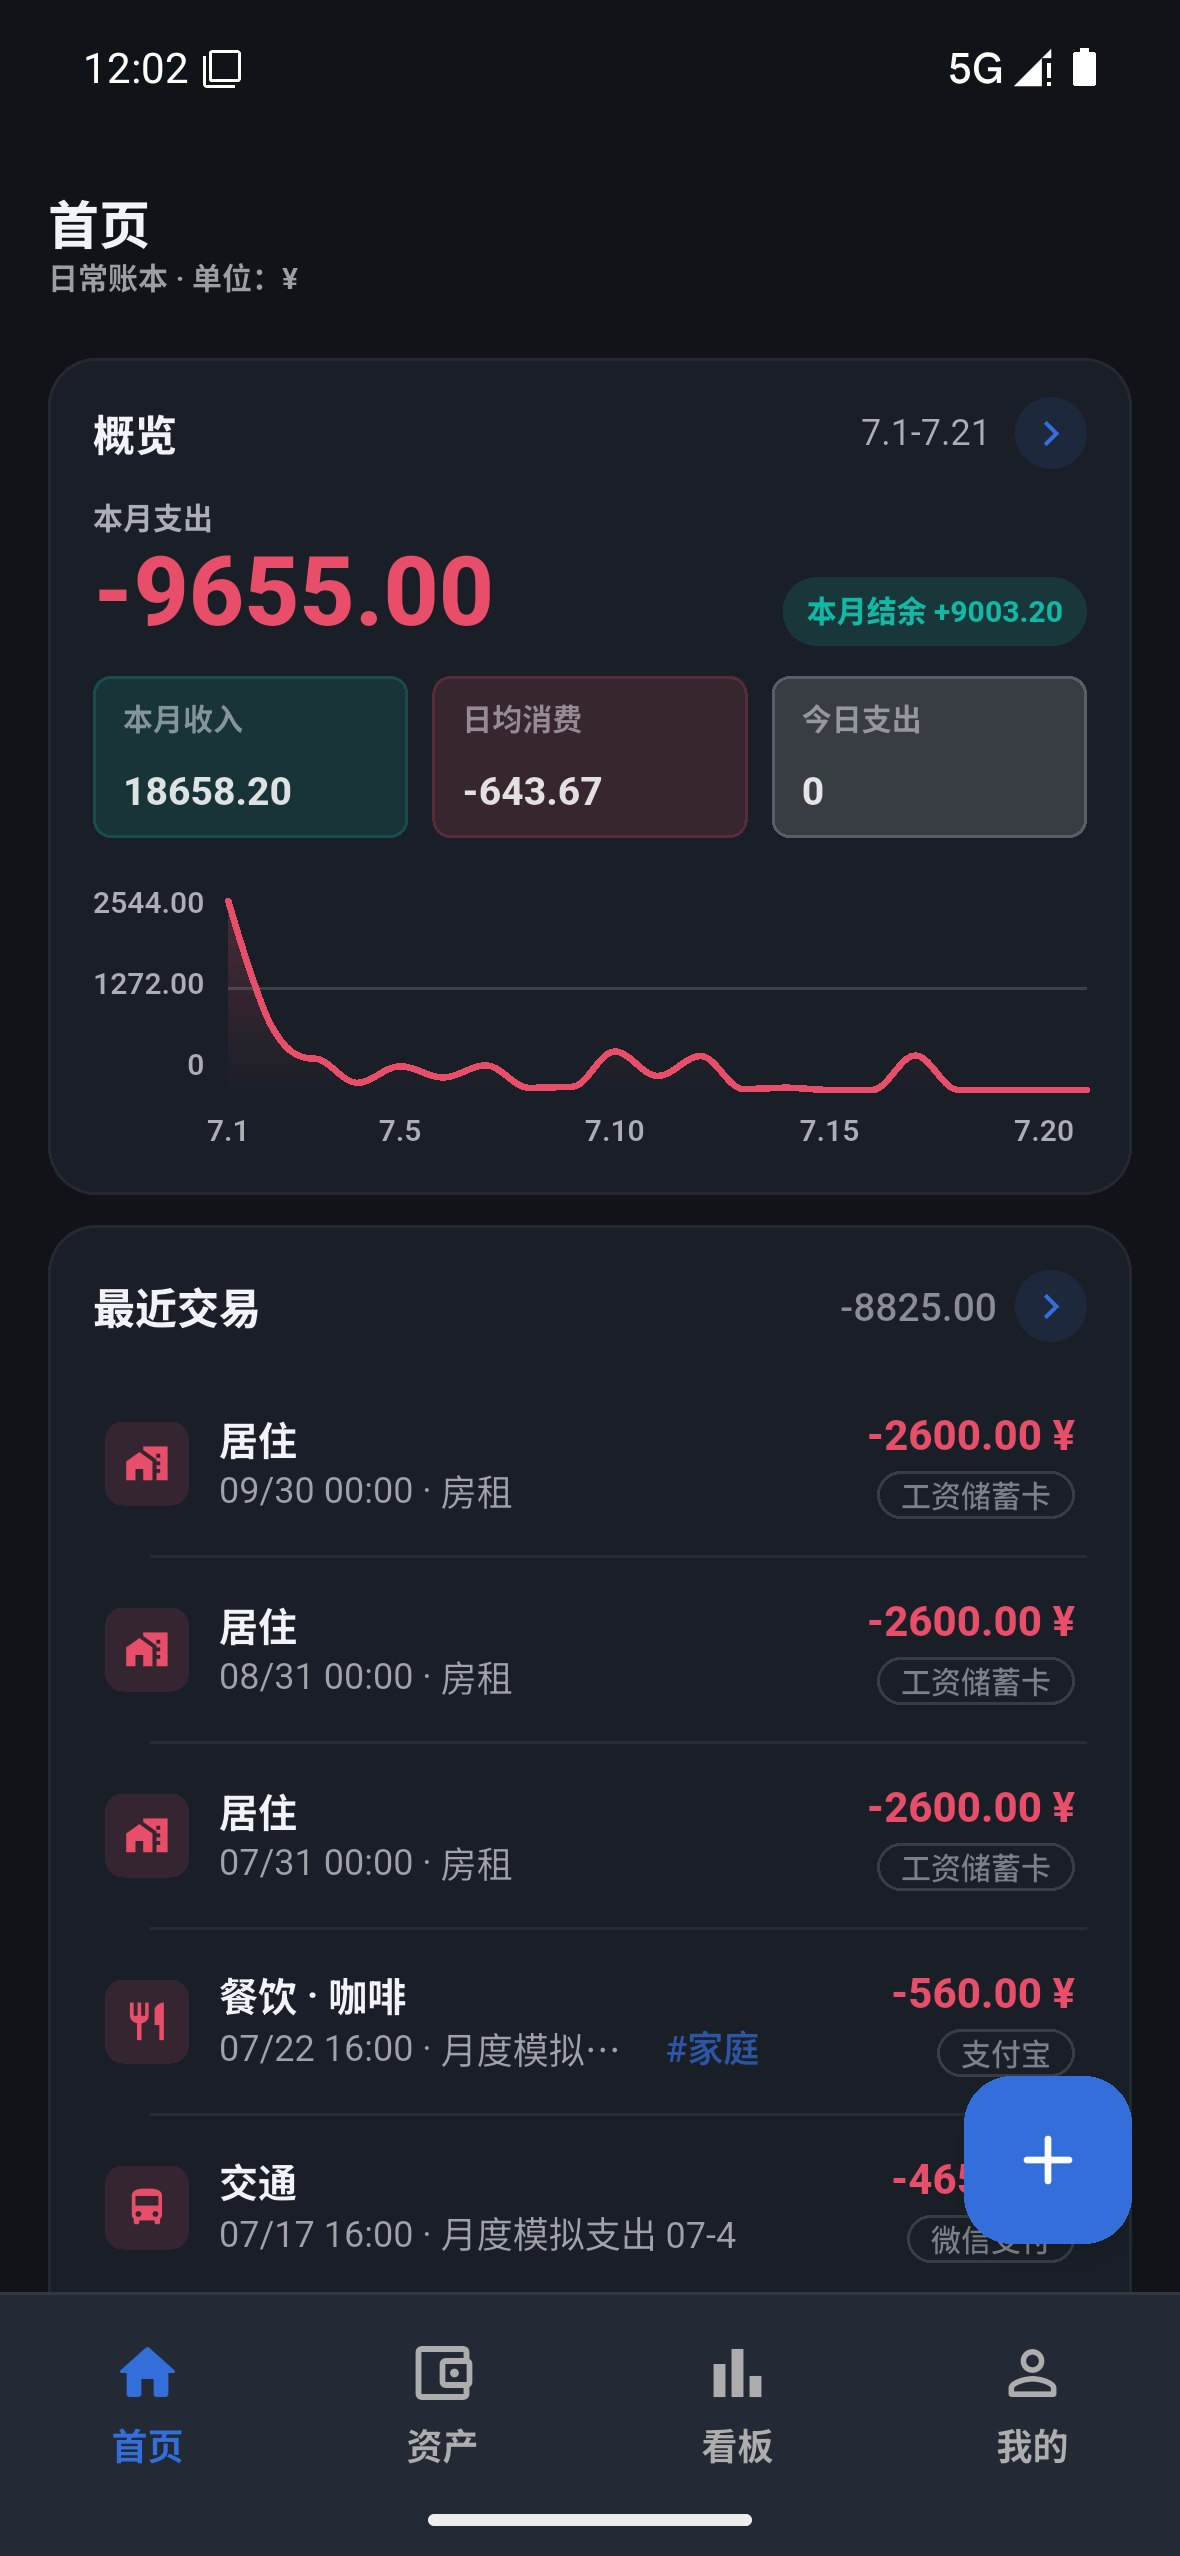
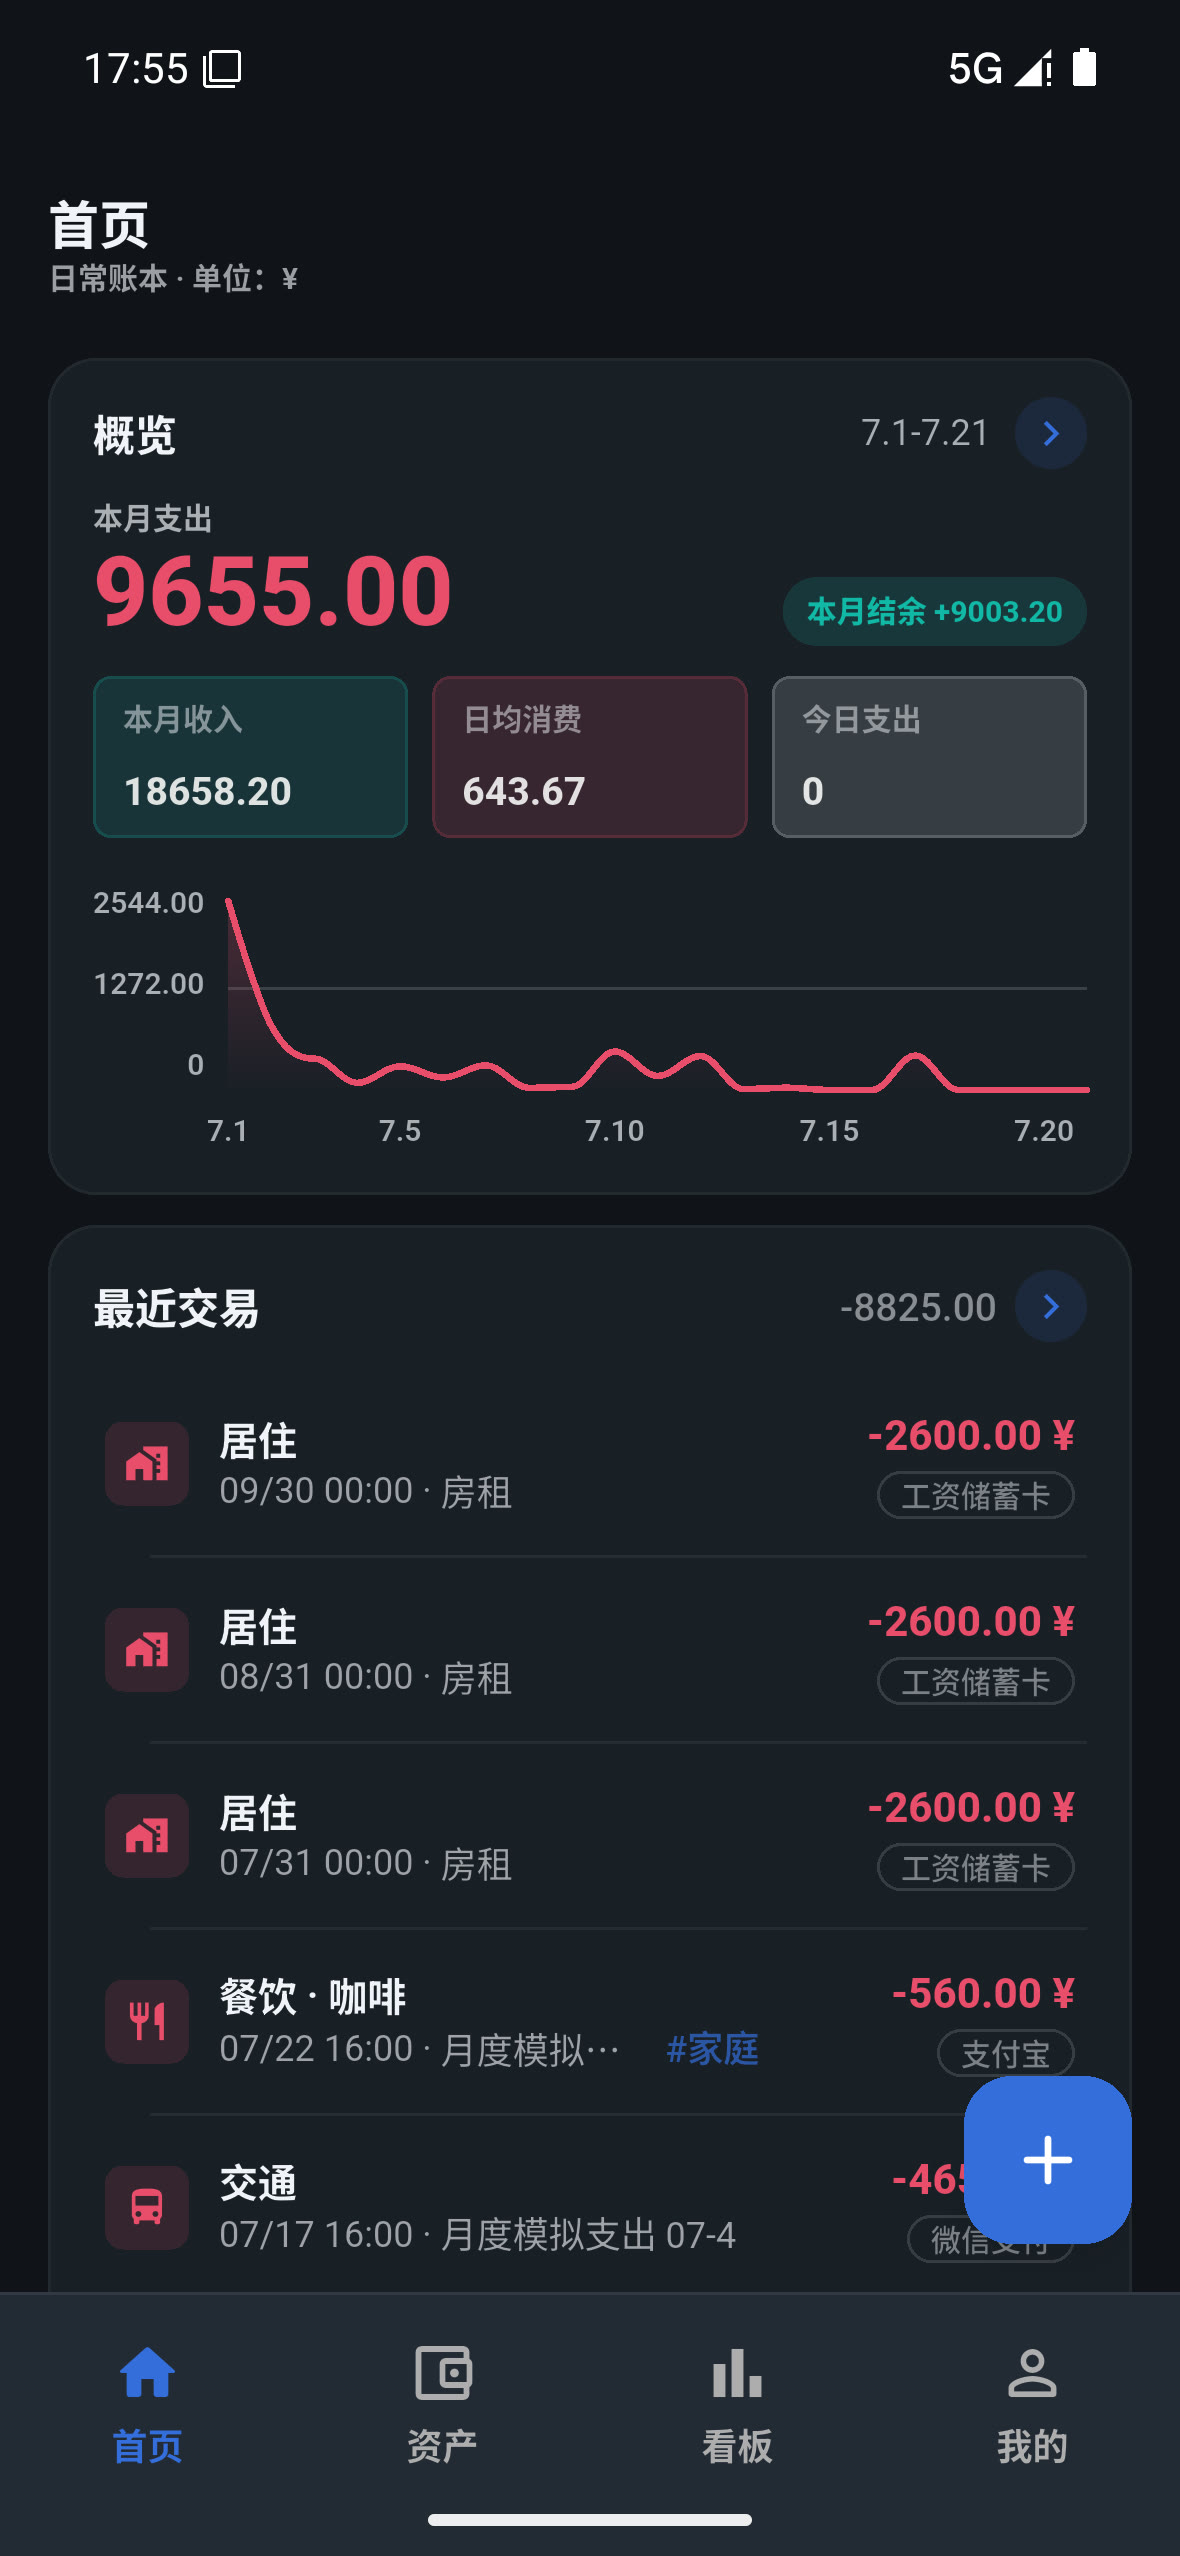
docs: 刷新标签式报表页的预览截图
在同一台 1180x2556 诊断模拟器上按评审过的布局重新截取首页、资产页与报表页：报表截图现在展示日/月/年标签页及月度摘要、预算与排行卡片，支出金额与应用当前的渲染一致，不带符号。

Changed region(s): [[0.061, 0.2164, 0.4271, 0.2473], [0.3966, 0.2782, 0.4881, 0.34], [0.122, 0.0, 0.1525, 0.0309]]

diff --git a/docs/screenshots/README.md b/docs/screenshots/README.md
@@ -6,5 +6,8 @@
 - `assets.jpg` — 资产
 - `reports.jpg` — 看板
 
-最近一次重拍：2026-10-10（v1.19.0 图表统一为 `fl_chart` 适配层之后，深色主题 + `UNIFIED_DESIGN_PREVIEW=true`）。
-更新界面后记得同步替换：用 diagnostic flavor 打开对应页面顶部，`adb exec-out screencap -p` 截 1180×2556，转 JPEG 覆盖同名文件。
+最近一次重拍：2026-10-11（看板改为「日常 / 月统计 / 年统计」三 Tab 之后，深色主题；`reports.jpg` 取「月统计」Tab，能同时看到 Tab 结构与摘要 / 预算 / 排行卡）。
+
+更新界面后记得同步替换：用 diagnostic flavor（`--flavor diagnostic`，覆盖安装不丢演示账目）打开对应页面顶部，
+确认模拟器为 1180×2556 / density 480（`adb shell wm size` / `wm density`），
+`adb exec-out screencap -p > shot.png`，再转 JPEG 覆盖同名文件（如 `ffmpeg -i shot.png -q:v 3 home.jpg`）。
